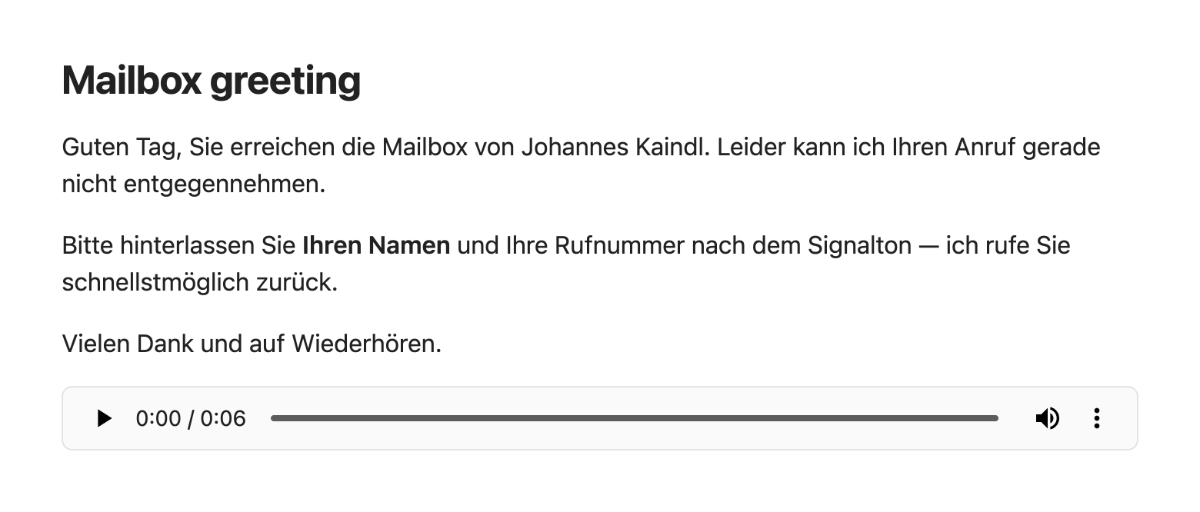
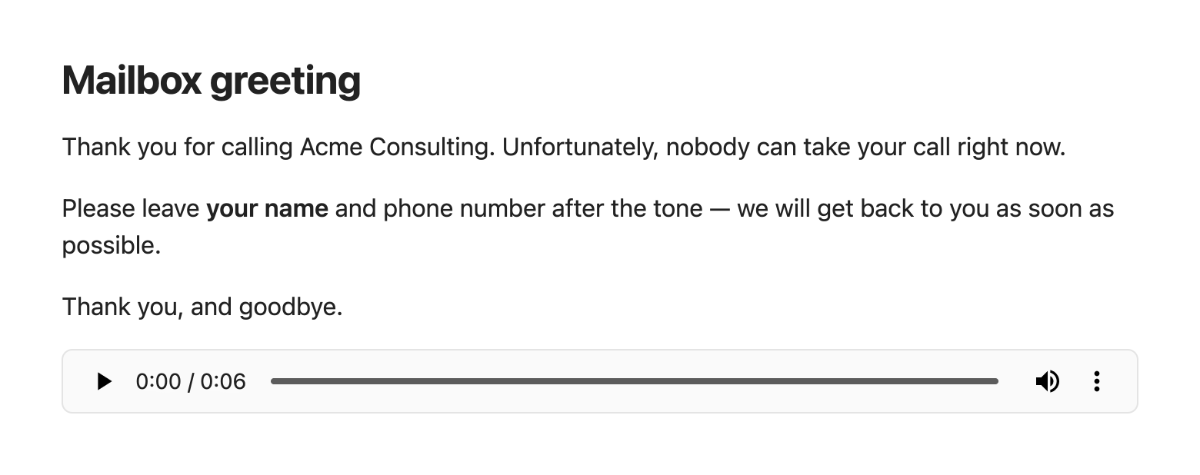
docs(shots): Beispieldaten generisch und englisch (kein echter Name, Beispielfirma); Hero neu aufgenommen; Vertrag um die Regel ergänzt

diff --git a/scripts/gui-smoke.ts b/scripts/gui-smoke.ts
@@ -17,7 +17,7 @@ import { Cdp, notices, openNote, pollUntil } from "./lib/cdp.js";
 
 const PLUGIN_ID = "audio-interface";
 const SMOKE_NOTE = "_audio-interface-smoke.md";
-const SMOKE_BODY = "# Ansage\n\nGuten Tag, Sie erreichen die Mailbox. Bitte hinterlassen Sie eine Nachricht.\n";
+const SMOKE_BODY = "# Ansage\n\nGuten Tag, Sie erreichen die Mailbox der Beispiel GmbH. Bitte hinterlassen Sie eine Nachricht.\n";
 const ASSET_KEY = "audio-interface-asset-base";
 
 interface Check { name: string; passed: boolean; detail: string }

diff --git a/docs/images/README.md b/docs/images/README.md
@@ -12,6 +12,8 @@ Obsidian 1.13.7, englische Oberfläche, helles Theme.
 
 ## Konventionen
 
+**Beispieldaten sind generisch und englisch** — keine echten Namen, Firmen oder Nummern; Beispiel-Inhalte auf Englisch, weil README.md die kanonische Fassung ist (deutsche Beispiel-Inhalte für die deutsche README wären zulässig, sind aber nicht nötig).
+
 Verbindlich ist der workspace-weite Bild-Standard (`_docs/readme/readme-spec.json`, Block `images`):
 Aufnahme bei 1200 px Breite; `hero`/`feature` mit `width="820"`, `detail` als Vorschaubild
 `width="380"` (unter `thumbs/`) verlinkt auf die Vollauflösung; Einbettung immer per `<img>`, absolute
@@ -23,7 +25,7 @@ kanonische Fassung, README.de.md bettet dieselben Bilder ein.
 
 | Datei | Klasse | Referenziert von | Muss zeigen | Stand |
 |---|---|---|---|---|
-| `hero.png` | hero | `README.md`, `README.de.md` (Kopf) | Die Notiz **Mailbox greeting** in der Lesefläche: Überschrift, der deutsche Ansagetext mit einer Hervorhebung, darunter der eingebettete Audio-Player der Datei **Mailbox greeting.wav** — vorlesen und vertonen an einem Gegenstand. Ruhiges Bild, keine Seitenleisten, keine Palette. | ✅ |
+| `hero.png` | hero | `README.md`, `README.de.md` (Kopf) | Die Notiz **Mailbox greeting** in der Lesefläche: Überschrift, ein generischer englischer Ansagetext (Beispielfirma, keine echten Namen) mit einer Hervorhebung, darunter der eingebettete Audio-Player der Datei **Mailbox greeting.wav** — vorlesen und vertonen an einem Gegenstand. Ruhiges Bild, keine Seitenleisten, keine Palette. | ✅ |
 | `command-palette.png` | feature | `README.md` (Usage) | Die Befehlspalette, gefiltert auf **Audio Interface**, mit allen sechs Kommandos lesbar: **Read note aloud**, **Read selection aloud**, **Pause / resume reading**, **Stop reading / cancel export**, **Export note as WAV**, **Export selection as WAV**. | ✅ |
 | `settings.png` | feature | `README.md` (Configuration) | Der Einstellungen-Tab mit den drei Gruppen **Read aloud**, **Voice-over & export**, **Local service**; Export eingeschaltet und die Engine-Zeile im Zustand **Ready (version …)** mit **Remove**. | ✅ |
 | `download.png` | detail | `README.md` (WAV export is an opt-in) | Nur die Engine-Zeile **Piper · Thorsten (de_DE, medium)** vor dem Download: Beschreibung mit Größe, Quelle und Lizenzen, Knopf **Download (…)**. Zeigt, dass nichts ohne Klick geladen wird. | ✅ |

diff --git a/README.md b/README.md
@@ -12,7 +12,7 @@ Reading aloud works the moment you install the plugin, with the voices already o
 Exporting a note as a WAV file — say, a mailbox greeting for your phone system — is a deliberate
 opt-in: you enable it, you press *Download*, and only then does a German voice arrive on your disk.
 
-<p align="center"><img src="https://git.jkaindl.de/jkaindl/audio-interface/raw/branch/main/docs/images/hero.png" width="820" alt="A note titled Mailbox greeting in reading view: three short German paragraphs and, below them, the embedded audio player of the exported WAV file"></p>
+<p align="center"><img src="https://git.jkaindl.de/jkaindl/audio-interface/raw/branch/main/docs/images/hero.png" width="820" alt="A note titled Mailbox greeting in reading view: three short paragraphs of a generic phone greeting and, below them, the embedded audio player of the exported WAV file"></p>
 
 ## Features
 

diff --git a/README.de.md b/README.de.md
@@ -13,7 +13,7 @@ da sind. Eine Notiz als WAV zu vertonen — etwa eine Mailbox-Ansage für die Te
 bewusstes Opt-in: du schaltest es ein, drückst *Herunterladen*, und erst dann kommt eine deutsche
 Stimme auf die Platte.
 
-<p align="center"><img src="https://git.jkaindl.de/jkaindl/audio-interface/raw/branch/main/docs/images/hero.png" width="820" alt="Eine Notiz mit dem Titel Mailbox greeting in der Leseansicht: drei kurze deutsche Absätze, darunter der eingebettete Audio-Player der exportierten WAV-Datei"></p>
+<p align="center"><img src="https://git.jkaindl.de/jkaindl/audio-interface/raw/branch/main/docs/images/hero.png" width="820" alt="Eine Notiz mit dem Titel Mailbox greeting in der Leseansicht: drei kurze Absätze einer generischen Telefonansage (englisch), darunter der eingebettete Audio-Player der exportierten WAV-Datei"></p>
 
 ## Features
 

diff --git a/docs/images/fixture/notes/Mailbox greeting.md b/docs/images/fixture/notes/Mailbox greeting.md
@@ -1,9 +1,9 @@
 # Mailbox greeting
 
-Guten Tag, Sie erreichen die Mailbox von Johannes Kaindl. Leider kann ich Ihren Anruf gerade nicht entgegennehmen.
+Thank you for calling Acme Consulting. Unfortunately, nobody can take your call right now.
 
-Bitte hinterlassen Sie **Ihren Namen** und Ihre Rufnummer nach dem Signalton — ich rufe Sie schnellstmöglich zurück.
+Please leave **your name** and phone number after the tone — we will get back to you as soon as possible.
 
-Vielen Dank und auf Wiederhören.
+Thank you, and goodbye.
 
 ![[Mailbox greeting.wav]]
